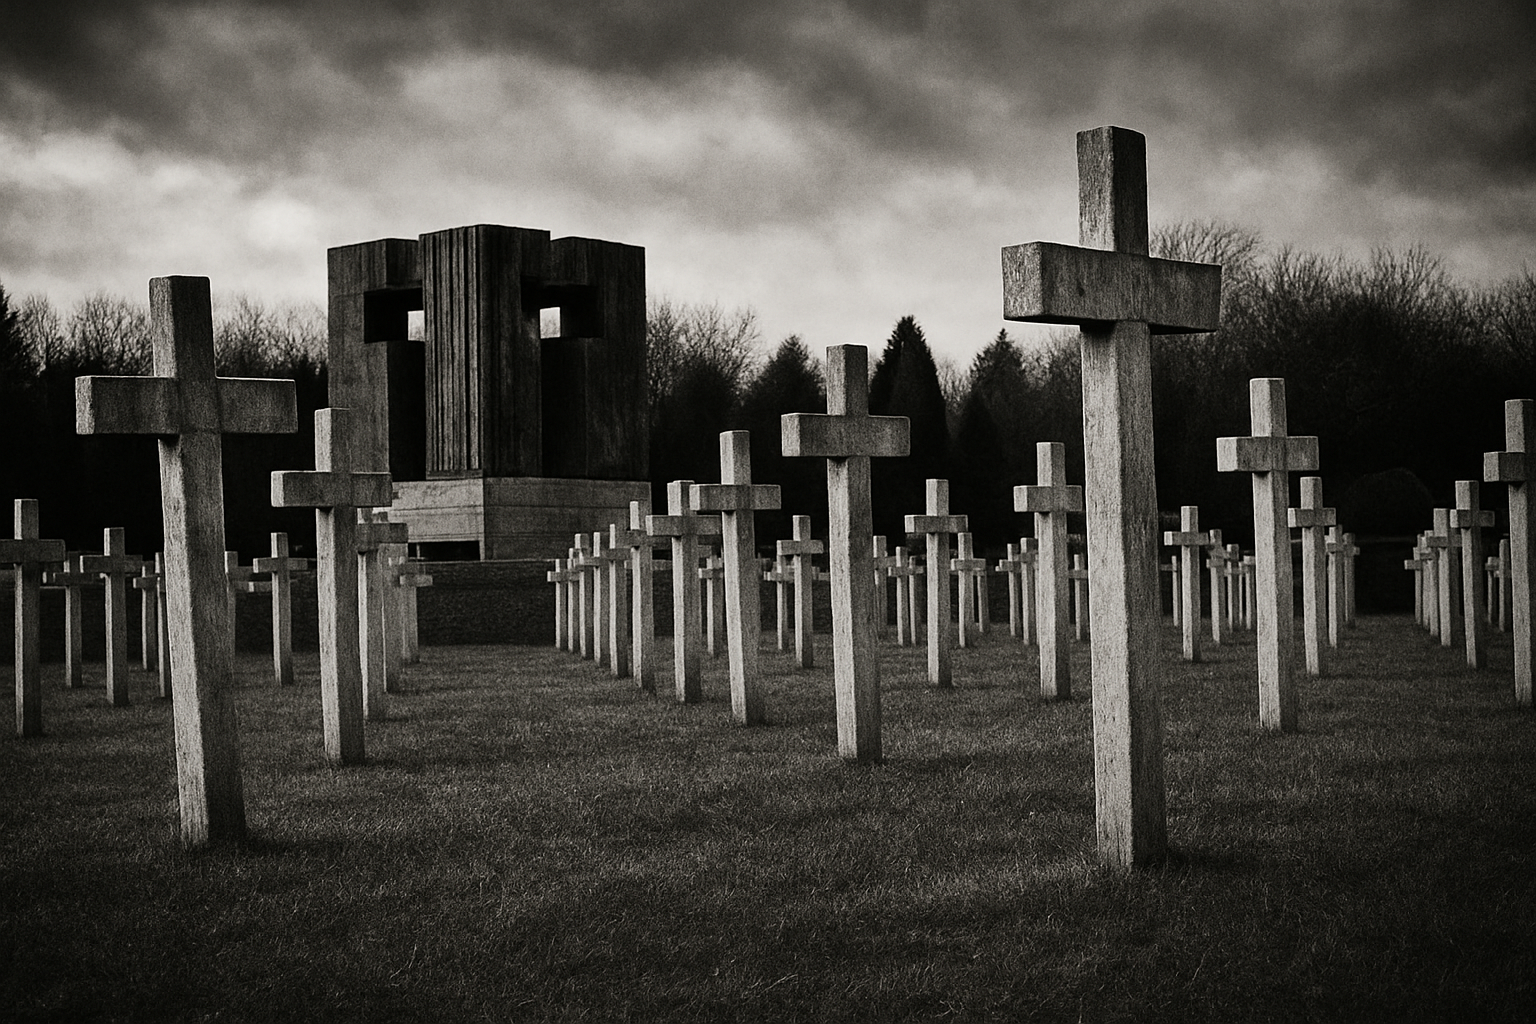
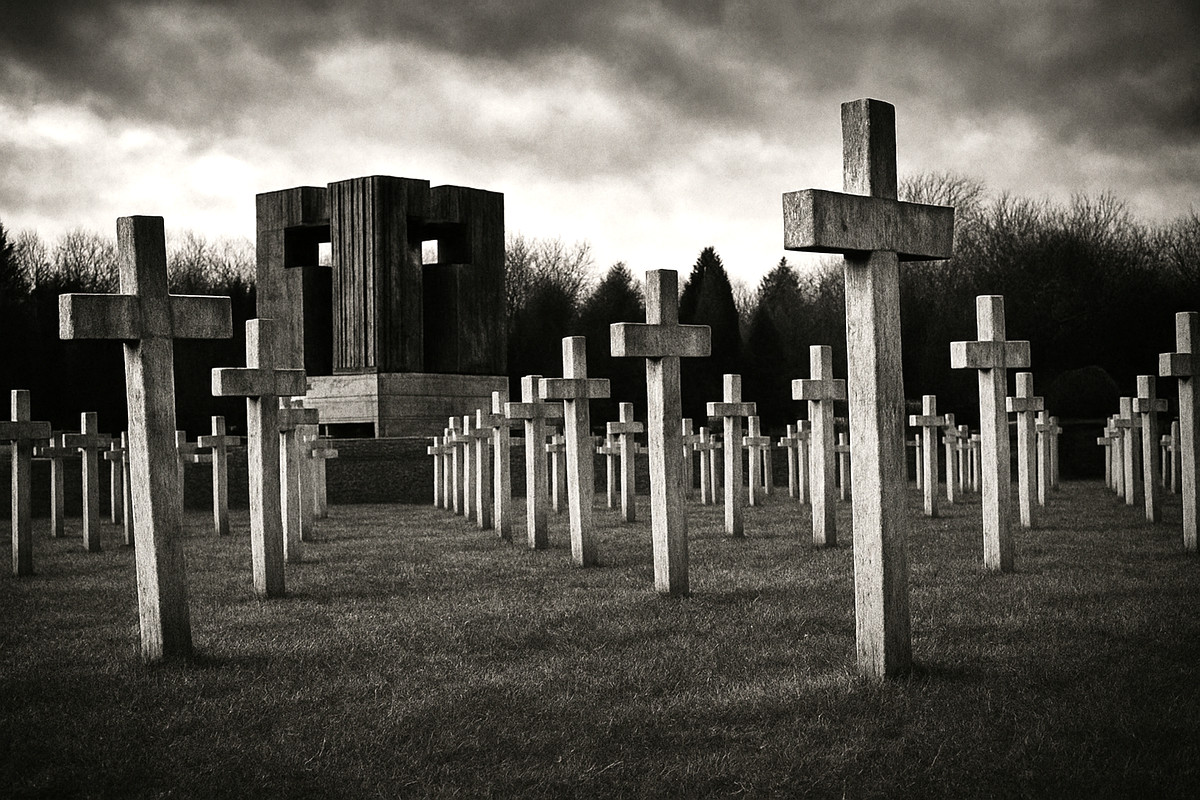
Revamp Vukovar branding ansd UI placeholder

diff --git a/pages/branitelji/[id]/index.vue b/pages/branitelji/[id]/index.vue
@@ -1,7 +1,9 @@
 <script setup lang="ts">
+import { computed } from 'vue'
 import { createError, useFetch, useRoute } from 'nuxt/app'
 import type { Defender } from '~/types/models'
 import { useMemories } from '~/composables/useMemories'
+import { DEFENDER_PLACEHOLDER_IMAGE } from '~/constants/images'
 
 const route = useRoute()
 const id = route.params.id as string
@@ -15,6 +17,19 @@ if (!defender.value && error.value) {
 const { memories, loading: memoriesLoading, fetchMemories } = useMemories(id)
 
 await fetchMemories()
+
+const imageSrc = computed(() => {
+  const rawUrl = (defender.value?.fotka_url || '').trim()
+  return rawUrl.length ? rawUrl : DEFENDER_PLACEHOLDER_IMAGE
+})
+
+const isPlaceholder = computed(() => imageSrc.value === DEFENDER_PLACEHOLDER_IMAGE)
+
+const initials = computed(() => {
+  const first = defender.value?.ime?.charAt(0) ?? ''
+  const last = defender.value?.prezime?.charAt(0) ?? ''
+  return `${first}${last}`.trim()
+})
 </script>
 
 <template>
@@ -26,15 +41,27 @@ await fetchMemories()
   </div>
   <div v-else-if="defender" class="flex flex-col gap-12">
     <section class="grid gap-10 lg:grid-cols-[0.9fr_1.1fr]">
-      <div class="overflow-hidden rounded-3xl border border-slate-200 bg-white shadow-lg">
+      <div class="relative overflow-hidden rounded-3xl border border-slate-200 bg-white shadow-lg">
         <img
-          v-if="defender.fotka_url"
-          :src="defender.fotka_url"
+          :src="imageSrc"
           :alt="`${defender.ime} ${defender.prezime}`"
           class="h-96 w-full object-cover"
+          :class="{
+            'object-top brightness-125 contrast-90 saturate-75 opacity-90': isPlaceholder,
+          }"
+          loading="lazy"
         />
-        <div v-else class="flex h-96 items-center justify-center text-6xl font-semibold text-slate-300">
-          {{ defender.ime.charAt(0) }}{{ defender.prezime.charAt(0) }}
+        <div
+          v-if="isPlaceholder"
+          class="absolute inset-0 bg-white/55 backdrop-blur-[2px]"
+          aria-hidden="true"
+        />
+        <div
+          v-if="isPlaceholder && initials"
+          class="absolute inset-0 flex items-center justify-center text-6xl font-semibold text-primary/80 drop-shadow-sm"
+          aria-hidden="true"
+        >
+          {{ initials }}
         </div>
       </div>
       <div class="space-y-6">

diff --git a/components/DefenderCard.vue b/components/DefenderCard.vue
@@ -1,5 +1,6 @@
 <script setup lang="ts">
 import { computed } from 'vue'
+import { DEFENDER_PLACEHOLDER_IMAGE } from '~/constants/images'
 import type { Defender } from '~/types/models'
 
 const props = defineProps<{ defender: Defender }>()
@@ -14,19 +15,44 @@ const statusLabel = computed(() => {
       return null
   }
 })
+
+const imageSrc = computed(() => {
+  const rawUrl = (props.defender.fotka_url || '').trim()
+  return rawUrl.length ? rawUrl : DEFENDER_PLACEHOLDER_IMAGE
+})
+
+const isPlaceholder = computed(() => imageSrc.value === DEFENDER_PLACEHOLDER_IMAGE)
+
+const initials = computed(() => {
+  const first = props.defender.ime?.charAt(0) ?? ''
+  const last = props.defender.prezime?.charAt(0) ?? ''
+  return `${first}${last}`.trim()
+})
 </script>
 
 <template>
   <article class="group flex flex-col overflow-hidden rounded-3xl border border-primary/10 bg-white/95 shadow-lg shadow-primary/10 transition hover:-translate-y-1 hover:shadow-primary/20">
     <div class="relative h-56 w-full overflow-hidden bg-gradient-to-br from-primary/10 to-primary/5">
       <img
-        v-if="props.defender.fotka_url"
-        :src="props.defender.fotka_url"
+        :src="imageSrc"
         :alt="`${props.defender.ime} ${props.defender.prezime}`"
         class="h-full w-full object-cover transition duration-500 group-hover:scale-105"
+        :class="{
+          'object-top brightness-125 contrast-90 saturate-75 opacity-90': isPlaceholder,
+        }"
+        loading="lazy"
       />
-      <div v-else class="flex h-full items-center justify-center text-5xl font-semibold text-primary/30">
-        {{ props.defender.ime.charAt(0) }}{{ props.defender.prezime.charAt(0) }}
+      <div
+        v-if="isPlaceholder"
+        class="absolute inset-0 bg-white/55 backdrop-blur-[2px]"
+        aria-hidden="true"
+      />
+      <div
+        v-if="isPlaceholder && initials"
+        class="absolute inset-0 flex items-center justify-center text-5xl font-semibold text-primary/80 drop-shadow-sm"
+        aria-hidden="true"
+      >
+        {{ initials }}
       </div>
       <div class="absolute inset-x-0 bottom-0 bg-gradient-to-t from-navy/80 to-transparent p-4 text-white">
         <p class="text-xs uppercase tracking-[0.3em] text-white/70">Jedinica</p>

diff --git a/constants/images.ts b/constants/images.ts
@@ -1,0 +1,2 @@
+export const DEFENDER_PLACEHOLDER_IMAGE = '/images/bijeli-kriz-placeholder.jpg'
+
